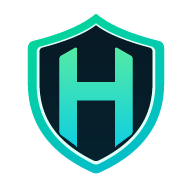
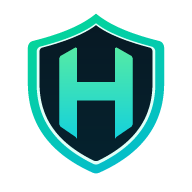
fix: recenter HAVEN monogram

Changed region(s): [[0.5938, 0.6562, 0.7188, 0.7812], [0.2812, 0.6562, 0.4062, 0.7812]]

diff --git a/web/src/icons.tsx b/web/src/icons.tsx
@@ -28,7 +28,7 @@ export function HavenIcon(props: IconProps) {
     <path d="M12 1.7C10.6 2.85 8.4 4.05 4.1 5.12 3.7 5.22 3.48 5.58 3.48 6.02V10.4C3.48 15.6 6.35 19.25 11.58 21.58Q12 21.77 12.42 21.58C17.65 19.25 20.52 15.6 20.52 10.4V6.02C20.52 5.58 20.3 5.22 19.9 5.12 15.6 4.05 13.4 2.85 12 1.7Z" fill={`url(#${rim})`} />
     <path d="M12 2.9C10.85 3.82 8.75 4.85 5.05 5.82 4.75 5.9 4.58 6.17 4.58 6.5V10.4C4.58 15.05 7.04 18.22 11.62 20.47Q12 20.66 12.38 20.47C16.96 18.22 19.42 15.05 19.42 10.4V6.5C19.42 6.17 19.25 5.9 18.95 5.82 15.25 4.85 13.15 3.82 12 2.9Z" fill="#e0fff8" />
     <path d="M12 3.14C10.88 4.02 8.83 5.02 5.29 5.95 5.07 6.01 4.94 6.21 4.94 6.46V10.4C4.94 14.86 7.27 17.88 11.68 20.06Q12 20.22 12.32 20.06C16.73 17.88 19.06 14.86 19.06 10.4V6.46C19.06 6.21 18.93 6.01 18.71 5.95 15.17 5.02 13.12 4.02 12 3.14Z" fill={`url(#${field})`} />
-    <path d="M7.55 7 9.45 5.92 9.62 6.02V10.25H14.38V6.02L14.55 5.92 16.45 7 16.58 7.25V16.55L16.45 16.82 14.55 18.22 14.38 18.45V12.55H9.62V18.45L9.45 18.22 7.55 16.82 7.42 16.55V7.25L7.55 7Z" fill={`url(#${monogram})`} />
+    <path d="M7.55 7 9.45 5.92 9.62 6.02V10.25H14.38V6.02L14.55 5.92 16.45 7 16.58 7.25V15.55L16.45 15.82 14.55 17.12 14.38 17.35V12.55H9.62V17.35L9.45 17.12 7.55 15.82 7.42 15.55V7.25L7.55 7Z" fill={`url(#${monogram})`} />
   </svg>;
 }
 

diff --git a/web/src/account-notebook.test.tsx b/web/src/account-notebook.test.tsx
@@ -98,7 +98,7 @@ describe("account security notebook", () => {
 	});
 
 	it("keeps official provider navigation outside the isolated Electron client", () => {
-		vi.spyOn(navigator, "userAgent", "get").mockReturnValue("Mozilla/5.0 HAVEN-Desktop/0.25.4 Electron");
+		vi.spyOn(navigator, "userAgent", "get").mockReturnValue("Mozilla/5.0 HAVEN-Desktop/0.25.5 Electron");
 		render(<AccountNotebook profiles={[profile({ sessionStatus: "recognized", sessionChecks: ["devices"] })]} demoMode={false} unlocked busy={false} unlock={vi.fn()} lock={vi.fn()} save={vi.fn()} remove={vi.fn()} />);
 		expect(screen.queryByRole("link", { name: /Review at Google/ })).not.toBeInTheDocument();
 		expect(screen.getByText(/Desktop isolation blocks external navigation/)).toBeInTheDocument();

diff --git a/web/src/desktop-install.test.tsx b/web/src/desktop-install.test.tsx
@@ -23,11 +23,11 @@ describe("desktop installation", () => {
 	});
 
 	it("recognizes the bounded native desktop user-agent marker", () => {
-		userAgent.mockReturnValue("Mozilla/5.0 HAVEN-Desktop/0.25.4 Electron");
-		expect(nativeDesktopVersion()).toBe("0.25.4");
+		userAgent.mockReturnValue("Mozilla/5.0 HAVEN-Desktop/0.25.5 Electron");
+		expect(nativeDesktopVersion()).toBe("0.25.5");
 		expect(isStandaloneApp()).toBe(true);
 		const { result } = renderHook(() => useDesktopInstall());
-		expect(result.current).toMatchObject({ status: "native", nativeVersion: "0.25.4" });
+		expect(result.current).toMatchObject({ status: "native", nativeVersion: "0.25.5" });
 	});
 
 	it("captures one browser install prompt and records acceptance", async () => {

diff --git a/web/src/desktop-shell-contract.test.ts b/web/src/desktop-shell-contract.test.ts
@@ -25,7 +25,7 @@ describe("native desktop shell contract", () => {
 	});
 
 	it("pins dependencies and hardens the packaged desktop boundary", () => {
-		expect(manifest.version).toBe("0.25.4");
+		expect(manifest.version).toBe("0.25.5");
 		expect(manifest.build.files).toContain("build/origin.cjs");
 		expect(manifest.build.files).toContain("build/icon.ico");
 		expect(shell).toContain('path.join(__dirname, "build", "icon.ico")');

diff --git a/web/src/App.test.tsx b/web/src/App.test.tsx
@@ -59,7 +59,7 @@ const fixtures = vi.hoisted(() => {
 		schemaVersion: 1,
 		kind: "hub",
 		status: "ready",
-		version: "0.25.4",
+		version: "0.25.5",
 		revision: "test-revision",
 		generatedAt: "2026-09-05T08:00:00Z",
 		summary: { passing: 2, advisory: 0, failed: 0 },

diff --git a/scripts/generate-app-icons.go b/scripts/generate-app-icons.go
@@ -278,9 +278,9 @@ func havenMonogram() []point {
 		iconPoint(7.55, 7), iconPoint(9.45, 5.92), iconPoint(9.62, 6.02),
 		iconPoint(9.62, 10.25), iconPoint(14.38, 10.25), iconPoint(14.38, 6.02),
 		iconPoint(14.55, 5.92), iconPoint(16.45, 7), iconPoint(16.58, 7.25),
-		iconPoint(16.58, 16.55), iconPoint(16.45, 16.82), iconPoint(14.55, 18.22),
-		iconPoint(14.38, 18.45), iconPoint(14.38, 12.55), iconPoint(9.62, 12.55),
-		iconPoint(9.62, 18.45), iconPoint(9.45, 18.22), iconPoint(7.55, 16.82),
-		iconPoint(7.42, 16.55), iconPoint(7.42, 7.25), iconPoint(7.55, 7),
+		iconPoint(16.58, 15.55), iconPoint(16.45, 15.82), iconPoint(14.55, 17.12),
+		iconPoint(14.38, 17.35), iconPoint(14.38, 12.55), iconPoint(9.62, 12.55),
+		iconPoint(9.62, 17.35), iconPoint(9.45, 17.12), iconPoint(7.55, 15.82),
+		iconPoint(7.42, 15.55), iconPoint(7.42, 7.25), iconPoint(7.55, 7),
 	}
 }

diff --git a/internal/webui/brand_assets_test.go b/internal/webui/brand_assets_test.go
@@ -152,6 +152,7 @@ func TestCanonicalBrandMarkRetainsApprovedShieldAndMonogramPalette(t *testing.T)
 		"upper upright":     {180, 180, color.NRGBA{R: 70, G: 229, B: 177, A: 255}},
 		"monogram bridge":   {256, 240, color.NRGBA{R: 55, G: 223, B: 190, A: 255}},
 		"lower upright":     {320, 350, color.NRGBA{R: 25, G: 211, B: 215, A: 255}},
+		"lower H clearance": {320, 390, color.NRGBA{R: 5, G: 33, B: 45, A: 255}},
 	}
 	for label, sample := range want {
 		if got := nrgbaAt(standard, sample.x, sample.y); got != sample.color {

diff --git a/internal/buildinfo/buildinfo.go b/internal/buildinfo/buildinfo.go
@@ -2,7 +2,7 @@
 // command binaries. Revision is replaced by release builds with -ldflags.
 package buildinfo
 
-const Version = "0.25.4"
+const Version = "0.25.5"
 
 var Revision = "development"
 

diff --git a/README.md b/README.md
@@ -411,7 +411,7 @@ Haven/
 
 ## 🛣 Milestone history and direction
 
-Milestone 0.25 consolidates HAVEN's visual identity into one transparent canonical mark with separate standard, maskable, monochrome, and native-desktop outputs. Patch 0.25.1 adds a fuller Windows-specific transparent mark and a true multi-resolution icon with optically strengthened small sizes for title-bar and taskbar rendering. Patch 0.25.2 replaces the generic thin-line monogram with a stronger architectural form; patch 0.25.3 removes its center accent and smooths the protective contour. Patch 0.25.4 adopts the final sharp-crowned, balanced shield with a restrained emerald-to-cyan architectural H across the console, browser metadata, repository presentation, and desktop package. Deterministic generation and packaging tests keep those assets consistent without introducing remote image requests or tracking. Milestone 0.24 turns the portability model into a calm operational workspace: authenticated hub diagnostics, read-only hub and agent doctor commands, certificate and state validation, a redacted recovery map, and explicit install/repair/re-enrollment guidance. It neither adds a repair control nor exports private configuration. Milestone 0.23 removes household-specific runtime guesses, records the complete portability boundary, makes the Electron origin safely selectable at build time, treats schema-compatible agents as healthy across release-number changes, and refines the product's visual hierarchy and repository presentation. It favors a documented clean reinitialization over an unsafe destructive restore rehearsal against the live hub. Milestone 0.22 adds a deterministic browser-hardening review that treats only explicit disabled or non-enforcing defenses, cookie-verification evidence, and meaningful extension changes as concrete review items. Cookie volume and ordinary logged-in sites cannot alter its result. Milestone 0.21 adds encrypted, persistent owner classifications for each currently observed Chrome profile/domain pair and a guided cleanup queue. Milestones 0.18–0.20 add privacy-bounded browser, extension, cookie-domain, session-protection, and provider-review evidence. Milestone 0.17 adds the constrained Electron client, and milestone 0.16 remains the browser-installed fallback.
+Milestone 0.25 consolidates HAVEN's visual identity into one transparent canonical mark with separate standard, maskable, monochrome, and native-desktop outputs. Patch 0.25.1 adds a fuller Windows-specific transparent mark and a true multi-resolution icon with optically strengthened small sizes for title-bar and taskbar rendering. Patch 0.25.2 replaces the generic thin-line monogram with a stronger architectural form; patch 0.25.3 removes its center accent and smooths the protective contour. Patch 0.25.4 adopts the final sharp-crowned, balanced shield with a restrained emerald-to-cyan architectural H across the console, browser metadata, repository presentation, and desktop package; patch 0.25.5 corrects the H's lower reach so the monogram remains optically centered inside that shield. Deterministic generation and packaging tests keep those assets consistent without introducing remote image requests or tracking. Milestone 0.24 turns the portability model into a calm operational workspace: authenticated hub diagnostics, read-only hub and agent doctor commands, certificate and state validation, a redacted recovery map, and explicit install/repair/re-enrollment guidance. It neither adds a repair control nor exports private configuration. Milestone 0.23 removes household-specific runtime guesses, records the complete portability boundary, makes the Electron origin safely selectable at build time, treats schema-compatible agents as healthy across release-number changes, and refines the product's visual hierarchy and repository presentation. It favors a documented clean reinitialization over an unsafe destructive restore rehearsal against the live hub. Milestone 0.22 adds a deterministic browser-hardening review that treats only explicit disabled or non-enforcing defenses, cookie-verification evidence, and meaningful extension changes as concrete review items. Cookie volume and ordinary logged-in sites cannot alter its result. Milestone 0.21 adds encrypted, persistent owner classifications for each currently observed Chrome profile/domain pair and a guided cleanup queue. Milestones 0.18–0.20 add privacy-bounded browser, extension, cookie-domain, session-protection, and provider-review evidence. Milestone 0.17 adds the constrained Electron client, and milestone 0.16 remains the browser-installed fallback.
 
 Milestone 0.7 adds native Linux monitoring and boot-persistent endpoint-agent scheduling. Milestone 0.7.1 makes its network results explainable, 0.7.2 makes report freshness and finding lifecycles explicit, and 0.7.3 correlates host listeners with sanitized Docker port mappings. Milestone 0.7.4 adds deliberate suggested-baseline review; 0.7.5 adds live systemd ownership and service-constrained expectations for Linux listeners. Milestone 0.8 combines the latest authenticated reports into a network-wide coverage, change, and live-relationship view while keeping merely observed private endpoints separate from explicitly enrolled devices. Milestone 0.9 turns current findings, server-classified stale agents, incomplete enrollments, new non-local listeners, and changed service attribution into explainable active alerts. Milestone 0.10 moves that derivation to the hub and adds opt-in, encrypted, durable Web Push delivery with bounded retries and per-destination receipts; its expectation model also supports owner-constrained dynamic ranges and expiring development approvals. Milestone 0.11 adds reproducible console-free Windows scheduled-task packaging and credential-free monitoring of explicitly configured private network appliances. Milestone 0.12 adds optional read-only NAS health through bounded SNMP plus a host-key-pinned, forced-command SSH helper. Milestone 0.13 reorganizes the console around stable routes and strengthens report delivery, freshness semantics, readiness, version evidence, rendered UI tests, and the public release pipeline. Milestone 0.14 adds authenticated reporter provenance, capability evidence, fleet lifecycle presentation, checksummed cross-platform artifacts, and safe install/repair/status/uninstall workflows while preserving older enrolled reporters. Milestone 0.15 adds an encrypted owner-reported account-security notebook with calm, evidence-derived authentication and recovery suggestions while explicitly excluding provider access and secret storage; 0.15.2 adds a separately reauthenticated private workspace, structured review facts, and local platform branding. A later event-driven Windows sensor may move under Service Control Manager only when real-time Defender and Windows Event Log monitoring justify an always-running process; it must remain outbound-only and use the least privilege its collectors require. HAVEN does not scan the LAN, retain remote endpoints, or claim that an alert proves compromise. See [verification](docs/VERIFICATION.md) for the claim-to-test map. The Ubuntu hub does not execute Windows actions on another machine. GitHub Actions verifies the Go, frontend, desktop, dependency, concurrency, vulnerability, Windows process isolation, agent artifacts, image, static analysis, and public-repository safety checks on each proposed change.
 

diff --git a/docs/ARCHITECTURE.md b/docs/ARCHITECTURE.md
@@ -37,7 +37,7 @@ PostgreSQL becomes appropriate if HAVEN needs multiple hub writers, multiple hub
 
 ## Current milestone boundary
 
-Milestone 0.25 gives every application surface one canonical transparent brand geometry while retaining separate standard, maskable, monochrome, and desktop packaging outputs. Patch 0.25.1 adds purpose-specific Windows optical sizing and a PNG-backed multi-resolution ICO rather than asking Windows to derive tiny chrome from one large raster. Patch 0.25.4 settles the mark on a sharp-crowned, visually balanced shield with a geometric emerald-to-cyan H and a restrained pale inner keyline. The assets remain local, deterministic, and presentation-only: they add no network request, runtime privilege, state, or trust boundary. Milestone 0.24 adds an authenticated operational-diagnostics projection and matching read-only hub/agent doctor commands. It turns the 0.23 product/deployment/state portability boundary into an actionable recovery map while retaining the deterministic browser-hardening review, encrypted browser-site curation, live-only browser evidence boundary, installable-web fallback, private account-security notebook, routed console, reliability guardrails, and bounded read-only NAS health evidence:
+Milestone 0.25 gives every application surface one canonical transparent brand geometry while retaining separate standard, maskable, monochrome, and desktop packaging outputs. Patch 0.25.1 adds purpose-specific Windows optical sizing and a PNG-backed multi-resolution ICO rather than asking Windows to derive tiny chrome from one large raster. Patch 0.25.4 settles the mark on a sharp-crowned, visually balanced shield with a geometric emerald-to-cyan H and a restrained pale inner keyline; patch 0.25.5 shortens the H's lower legs to preserve its optical center. The assets remain local, deterministic, and presentation-only: they add no network request, runtime privilege, state, or trust boundary. Milestone 0.24 adds an authenticated operational-diagnostics projection and matching read-only hub/agent doctor commands. It turns the 0.23 product/deployment/state portability boundary into an actionable recovery map while retaining the deterministic browser-hardening review, encrypted browser-site curation, live-only browser evidence boundary, installable-web fallback, private account-security notebook, routed console, reliability guardrails, and bounded read-only NAS health evidence:
 
 - Diagnostics are a bounded projection of local evidence. They can state that a file set, database readiness probe, HTTPS origin, certificate chain, installation kind, or accepted-report sequence was verified; they never serialize the underlying path, address, device identity, certificate, account data, or secret.
 - `haven-hub doctor` opens no database, applies no migration, creates no directory, and performs no repair. The running hub uses its already-open store for the stronger database readiness result exposed through the authenticated, non-cacheable `/api/diagnostics` route.
